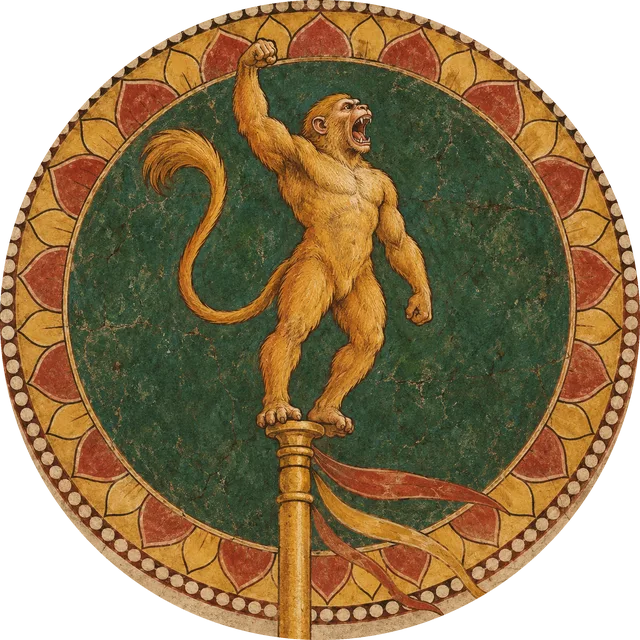
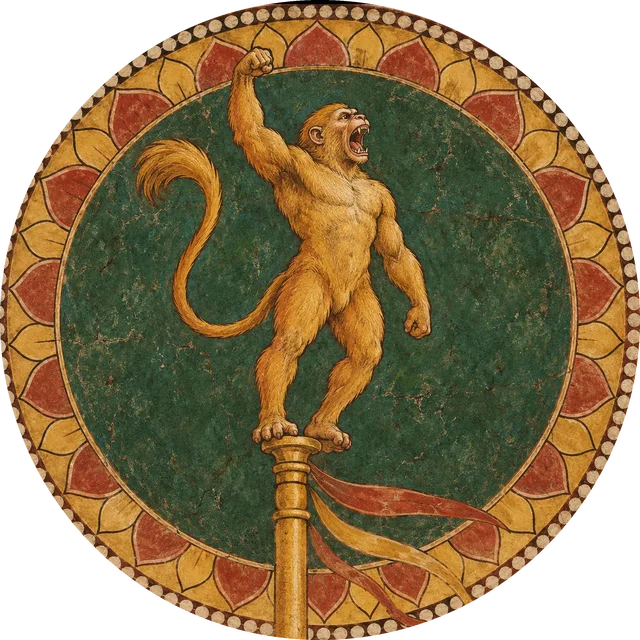
Fix medallion crops, tab-aware header, coin palette
- Re-crop epic images to each medallion's detected circle
- Header eyebrow, lede and counts follow the active tab
- Drop duplicate section heading and lede
- Magadha coin in Ajanta palette to match the set
- Ikshvaku card: verse names only the kovidara tree

Claude-Session: https://claude.ai/code/session_01DgRK3tMrch3BCqmBE3ynVe

diff --git a/lanchhana/index.html b/lanchhana/index.html
@@ -21,6 +21,7 @@
   --copper:#E28A50; --verdigris:#5CB8A4; --disc:#1A2521; --disc-ring:#5CB8A4; color-scheme:dark}
 
 *{box-sizing:border-box}
+[hidden]{display:none!important}
 body{background:var(--paper);color:var(--ink);font:15px/1.55 var(--body);margin:0}
 .wrap{max-width:1180px;margin:0 auto;padding-inline:20px;padding-block:40px 64px}
 header{display:grid;grid-template-columns:minmax(0,1fr) auto;gap:32px;align-items:end;border-bottom:1px solid var(--line);padding-bottom:28px}
@@ -105,11 +106,12 @@ footer a{color:var(--muted)}
 <div class="wrap">
   <header>
     <div>
-      <p class="eyebrow">Royal insignia of Indian polities · c. 322 BCE – 1040 CE</p>
+      <p class="eyebrow" id="hd-eyebrow">Royal insignia of Indian polities · c. 322 BCE – 1040 CE</p>
       <h1>Lāñchhana Register<span class="deva">राजलाञ्छन</span></h1>
-      <p class="lede">The emblem a dynasty struck onto the seal ring of its copper-plate land grants was its lāñchhana, its official mark. Each emblem is painted by JavaScript in this page in the manner of early Indian mural and manuscript painting: flat mineral pigments, edge shading, brush contour and lotus-petal border. Where the dynasty's own region has surviving paintings, that tradition sets the palette; where none survive, the caption says so. Where no seal emblem survives, the dynasty's standard coin device is shown and labelled as a coin.</p>
+      <p class="lede" id="hd-lede">The emblem a dynasty struck onto the seal ring of its copper-plate land grants was its lāñchhana, its official mark. Each emblem is painted by JavaScript in this page in the manner of early Indian mural and manuscript painting: flat mineral pigments, edge shading, brush contour and lotus-petal border. Where the dynasty's own region has surviving paintings, that tradition sets the palette; where none survive, the caption says so. Where no seal emblem survives, the dynasty's standard coin device is shown and labelled as a coin.</p>
     </div>
-    <div class="stats"><div><b id="n-total">0</b>dynasties</div><div><b id="n-seal">0</b>seal-attested</div></div>
+    <div class="stats" id="stats-modern"><div><b id="n-total">0</b>dynasties</div><div><b id="n-seal">0</b>seal-attested</div></div>
+    <div class="stats" id="stats-itihasa" hidden><div><b id="n-epic">0</b>banners</div><div><b id="n-epic-done">0</b>painted</div></div>
   </header>
 
   <div class="tabs" role="tablist" aria-label="Sections">
@@ -148,10 +150,8 @@ footer a{color:var(--muted)}
   </div>
 
   <div role="tabpanel" id="panel-itihasa" aria-labelledby="tab-itihasa" hidden>
-  <section class="epic" aria-labelledby="epic-h">
+  <section class="epic">
     <p class="eyebrow">Literary tradition, not seal evidence</p>
-    <h2 id="epic-h">Bharatiya Itihasa traditions</h2>
-    <p class="lede">The Purāṇas list the royal lines of Magadha and the solar and lunar houses, but they describe genealogies, not emblems. The emblems of that world survive in the epics, as the devices on warriors' war banners (dhvaja). Each card quotes its verse from the Mahābhārata (critical edition) or the Rāmāyaṇa. The images are interpretive; cards still marked "in progress" await their painting.</p>
     <div class="grid" id="epic-grid"></div>
   </section>
   </div>
@@ -946,7 +946,7 @@ E.garudaFlying2 = {style:"ajanta", paint(P){ const {pal}=P;
 
 /* ---------------- Magadha: punch-marked silver kārṣāpaṇa ---------------- */
 (function(){ const E = window.LanchhanaPainter.E, TAU=Math.PI*2;
-E.punchCoin = {style:"pala", paint(P){ const {pal}=P, ag="#cfd2cf", agS="#5d625e", agH="#f7f8f4", die="#7d827d";
+E.punchCoin = {style:"ajanta", paint(P){ const {pal}=P, ag="#cfd2cf", agS="#5d625e", agH="#f7f8f4", die="#7d827d";
   // irregular, slightly bent silver bar
   P.shape("M150 196 C170 168 250 160 330 170 C360 174 376 186 372 206 L382 300 C384 330 364 346 330 346 C260 352 196 352 158 340 C132 332 126 312 132 290 L136 230 C136 214 140 204 150 196 Z", {fill:ag, shade:agS, depth:24, lw:3, hi:agH});
   P.brush("M150 196 C170 168 250 160 330 170", {w:2, color:agH, a:.6});
@@ -1502,7 +1502,7 @@ const MBH = {
 const EPIC = [
  {no:"1", n:"Ikṣvāku of Ayodhyā", who:"Bharata's chariot ensign", e:"Kovidāra tree", k:"text", img:"01-ikshvaku",
   san:"eṣa vai sumahān śrīmān viṭapī samprakāśate | virājaty udgataskandhaḥ kovidāradhvajo rathe", ref:"Rāmāyaṇa 2.96.18",
-  t:"Lakṣmaṇa sees Bharata's army approach and knows it by its banner: a very large, glorious kovidāra tree, trunk and branches raised high, on the chariot's ensign.", src:["ram"]},
+  t:"Lakṣmaṇa sees Bharata's army approach and knows it by its banner: a very large, glorious kovidāra tree, trunk and branches raised high, on the chariot's ensign. The verse names only the tree; the sun and Om on the 2025 Ram Mandir flag are later additions.", src:["ram"]},
  {no:"2a", n:"Magadha (Bṛhadratha to Nanda)", who:"Punch-marked silver coinage", e:"Sun and six-armed symbol", k:"coin", paint:"punchCoin",
   san:"", ref:"",
   t:"The Purāṇas list these kings but give no emblems. Their silver coins always carry a sun mark and a six-armed symbol, with three further marks drawn from a large repertoire; the three shown here are illustrative. Painted in JavaScript from the documented marks.", src:["kar"]},
@@ -1551,7 +1551,7 @@ const EPIC = [
 ];
 function epicCard(x){
   const links = x.src.map(k=>`<a href="${MBH[k][1]}" target="_blank" rel="noopener">${esc(MBH[k][0])}</a>`).join(" · ");
-  const art = x.img ? `<img class="epic-img" src="epic/${x.img}.webp?v=2" width="240" height="240" alt="${esc(x.e)}, interpretive painting" loading="lazy">`
+  const art = x.img ? `<img class="epic-img" src="epic/${x.img}.webp?v=3" width="240" height="240" alt="${esc(x.e)}, interpretive painting" loading="lazy">`
     : x.paint ? `<canvas class="seal paint" width="560" height="560" data-emb="${x.paint}" data-style="" role="img" aria-label="${esc(x.e)}"></canvas>`
     : `<div class="pending"><div><b>${x.no}</b>Painting in progress</div></div>`;
   return `<article class="card">${art}
@@ -1589,7 +1589,14 @@ render();
   const tabs=[...document.querySelectorAll('.tab')];
   document.getElementById('c-modern').textContent=D.length;
   document.getElementById('c-itihasa').textContent=EPIC.length;
+  document.getElementById('n-epic').textContent=EPIC.length;
+  document.getElementById('n-epic-done').textContent=EPIC.filter(x=>x.img||x.paint).length;
+  const hd={ modern:[document.getElementById('hd-eyebrow').textContent, document.getElementById('hd-lede').innerHTML],
+    itihasa:['War banners of the epics · Mahābhārata and Rāmāyaṇa','The Purāṇas list the royal lines of Magadha and the solar and lunar houses, but they record genealogies, not emblems. Those survive in the epics: a warrior was known at a distance by the device on his banner (dhvaja). Each card quotes the verse that describes it, from the critical edition of the Mahābhārata or the Rāmāyaṇa. The images are interpretive paintings made to follow the verse and nothing beyond it; cards marked “in progress” await theirs.'] };
   function show(id, focus){
+    const k = id==='tab-itihasa' ? 'itihasa' : 'modern';
+    document.getElementById('hd-eyebrow').textContent=hd[k][0]; document.getElementById('hd-lede').innerHTML=hd[k][1];
+    document.getElementById('stats-modern').hidden = k!=='modern'; document.getElementById('stats-itihasa').hidden = k!=='itihasa';
     tabs.forEach(t=>{const on=t.id===id; t.setAttribute('aria-selected',on); t.tabIndex=on?0:-1;
       document.getElementById(t.getAttribute('aria-controls')).hidden=!on; if(on&&focus) t.focus();});
     try{ history.replaceState(null,'', id==='tab-itihasa' ? '#itihasa' : location.pathname+location.search); }catch(e){}
